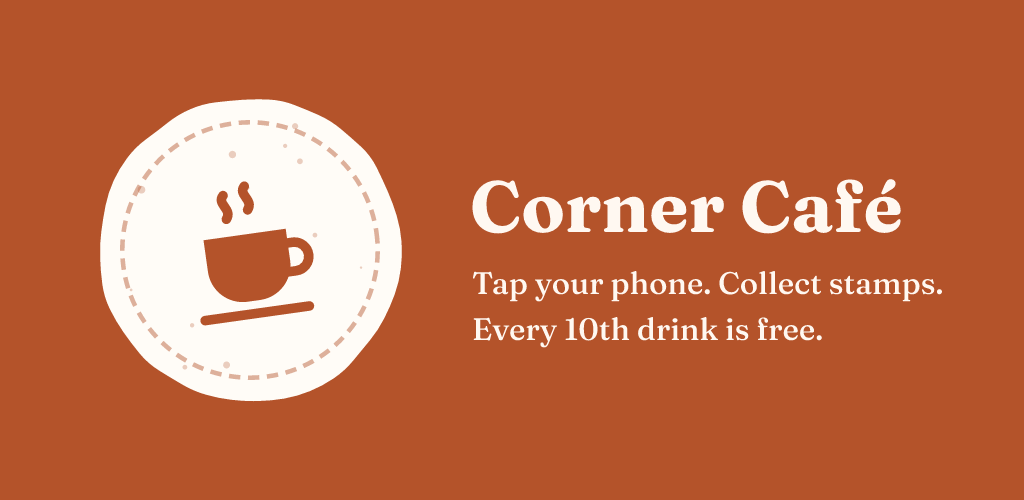
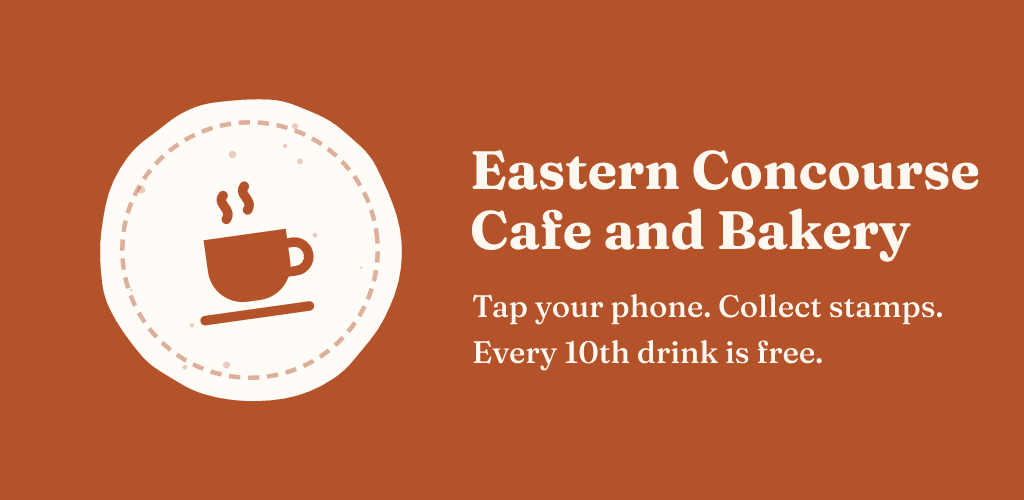
Name the app for Eastern Concourse Cafe and Bakery; build Play bundles locally
The café's real name replaces the placeholder. A new shortName (Eastern
Concourse) is the home-screen label and fills the one-line headers; the full
name stays on the card screen, About and the listing. cafeId and the link
scheme follow, so key 2 (signed for the old id) is retired and key 3 issued.

scripts/build-play-bundle.sh makes the Play upload key once and builds a
signed .aab with a fresh versionCode, checking the signature, so releasing
doesn't need an Expo account. The iOS workflow now derives the Xcode
project and scheme names instead of hard-coding them.

Changed region(s): [[0.4375, 0.3, 0.9688, 0.75]]

diff --git a/scripts/render-store.ts b/scripts/render-store.ts
@@ -64,10 +64,26 @@ function screenshot(png: Buffer, lines: readonly [string, string]): string {
   );
 }
 
+/** Splits a name into at most two lines, as evenly as its words allow. */
+function balancedLines(name: string): readonly string[] {
+  const words = name.trim().split(/\s+/);
+  if (name.length <= 14 || words.length < 2) return [name];
+  const splits = words.slice(1).map((_, i) => [words.slice(0, i + 1).join(' '), words.slice(i + 1).join(' ')]);
+  const longest = (lines: readonly string[]) => Math.max(...lines.map((l) => l.length));
+  return splits.reduce((best, s) => (longest(s) < longest(best) ? s : best));
+}
+
 /** Play feature graphic, 1024×500: the stamp mark beside the café's name. */
 function featureGraphic(): string {
   const [W, H] = [1024, 500];
   const mark = 360;
+  const x = 470;
+  const name = balancedLines(cafe.name);
+  // Fraunces Bold averages about 0.55em a character: a long name shrinks to fit beside the mark.
+  const size = Math.min(72, Math.floor((W - x - 48) / (0.55 * Math.max(...name.map((l) => l.length)))));
+  const lead = Math.round(size * 1.12);
+  const top = (H - (name.length * lead + 110)) / 2;
+  const below = top + name.length * lead;
   return doc(
     W,
     H,
@@ -75,9 +91,9 @@ function featureGraphic(): string {
     <g transform="translate(70 ${(H - mark) / 2})">
       <svg width="${mark}" height="${mark}" viewBox="0 0 ${mark} ${mark}">${stamp({ size: mark, r: 152, fill: theme.paper, ink: theme.accent, ring: theme.accent, speckle: theme.accent })}</svg>
     </g>
-    ${text(470, 232, 72, 700, theme.onAccent, cafe.name)}
-    ${text(472, 294, 31, 500, theme.onAccent, 'Tap your phone. Collect stamps.')}
-    ${text(472, 340, 31, 500, theme.onAccent, `Every ${freeEvery} drink is free.`)}`,
+    ${name.map((line, i) => text(x, top + size + i * lead, size, 700, theme.onAccent, line)).join('')}
+    ${text(x + 2, below + 62, 31, 500, theme.onAccent, 'Tap your phone. Collect stamps.')}
+    ${text(x + 2, below + 108, 31, 500, theme.onAccent, `Every ${freeEvery} drink is free.`)}`,
   );
 }
 

diff --git a/src/domain/config.ts b/src/domain/config.ts
@@ -30,6 +30,8 @@ export interface CafeConfig {
   /** Lowercase slug; part of the token signature, so changing it invalidates outstanding tokens. */
   readonly cafeId: string;
   readonly name: string;
+  /** Home-screen label and tight headers; keep it to about 18 characters. */
+  readonly shortName: string;
   readonly tagline: string;
   /** Deep link scheme, lowercase letters/digits only. */
   readonly scheme: string;
@@ -64,8 +66,9 @@ export function validateConfig(c: CafeConfig): Result<CafeConfig, readonly strin
     if (!cond) problems.push(msg);
   };
 
-  check(/^[a-z0-9]+(-[a-z0-9]+)*$/.test(c.cafeId ?? ''), 'cafeId must be a lowercase slug like "corner-cafe"');
+  check(/^[a-z0-9]+(-[a-z0-9]+)*$/.test(c.cafeId ?? ''), 'cafeId must be a lowercase slug like "eastern-concourse"');
   check(typeof c.name === 'string' && c.name.trim().length > 0, 'name is required');
+  check(typeof c.shortName === 'string' && c.shortName.trim().length > 0, 'shortName is required');
   check(/^[a-z][a-z0-9]{1,31}$/.test(c.scheme ?? ''), 'scheme must be lowercase letters/digits, starting with a letter');
   check(/^[a-zA-Z][a-zA-Z0-9]*(\.[a-zA-Z][a-zA-Z0-9]*)+$/.test(c.bundleId ?? ''), 'bundleId must look like com.example.app');
   check(Number.isInteger(c.rules?.stampsPerReward) && c.rules.stampsPerReward >= 2 && c.rules.stampsPerReward <= 20,

diff --git a/src/features/card/feedback.ts b/src/features/card/feedback.ts
@@ -20,7 +20,6 @@ export interface Feedback {
 }
 
 export interface FeedbackContext {
-  readonly cafeName: string;
   readonly rewardName: string;
   readonly stampsPerReward: number;
   /** Card summary after the event. */
@@ -37,7 +36,7 @@ export function progressLine(summary: CardSummary, stampsPerReward: number, rewa
 }
 
 export function describe(event: IntakeEvent, ctx: FeedbackContext): Feedback {
-  const { rewardName, stampsPerReward, summary, cafeName } = ctx;
+  const { rewardName, stampsPerReward, summary } = ctx;
 
   if (event.kind === 'success') {
     const o = event.outcome;
@@ -79,7 +78,7 @@ export function describe(event: IntakeEvent, ctx: FeedbackContext): Feedback {
 
   switch (event.error) {
     case 'not-ours':
-      return problem(`That's not a ${cafeName} code`, 'Hold your phone against the back of the counter phone, or scan the code on its screen.', 'Not a stamp code');
+      return problem("That code isn't one of ours", 'Hold your phone against the back of the counter phone, or scan the code on its screen.', 'Not a stamp code');
     case 'expired':
       return problem('That code has expired', 'Ask the barista to start a new stamp and try again.', 'Code expired');
     case 'not-yet-valid':

diff --git a/src/features/card/feedback.test.ts b/src/features/card/feedback.test.ts
@@ -7,7 +7,7 @@ import { describe, progressLine } from './feedback';
 
 const before = summarize(emptyCard, rules);
 const partial = summarize(cardOf(4), rules);
-const ctx = { cafeName: 'Test Cafe', rewardName: 'free drink', stampsPerReward: 9, summary: partial };
+const ctx = { rewardName: 'free drink', stampsPerReward: 9, summary: partial };
 const eventBase = { id: 1, source: 'nfc' as const };
 
 test.each([
@@ -39,7 +39,7 @@ test.each([
 });
 
 const problems: Record<IntakeProblem, readonly [string, string, string]> = {
-  'not-ours': ["That's not a Test Cafe code", 'Hold your phone against the back of the counter phone, or scan the code on its screen.', 'Not a stamp code'],
+  'not-ours': ["That code isn't one of ours", 'Hold your phone against the back of the counter phone, or scan the code on its screen.', 'Not a stamp code'],
   expired: ['That code has expired', 'Ask the barista to start a new stamp and try again.', 'Code expired'],
   'not-yet-valid': ["Your phone's clock looks off", 'Turn on automatic date & time in Settings, then try again.', 'Check date & time'],
   'already-used': ['That code was already used', 'Each code works once. Ask the barista for a new one.', 'Code already used'],

diff --git a/docs/privacy/index.html b/docs/privacy/index.html
@@ -3,7 +3,7 @@
 <head>
   <meta charset="utf-8">
   <meta name="viewport" content="width=device-width, initial-scale=1">
-  <title>Corner Café Loyalty Card — Privacy Policy</title>
+  <title>Eastern Concourse Cafe and Bakery loyalty card — Privacy Policy</title>
   <style>
     :root { --bg: #F2EBE1; --paper: #FFFCF7; --ink: #2A1E17; --muted: #6E5A4C; --accent: #B4532A; --line: #E2D6C7; }
     @media (prefers-color-scheme: dark) {
@@ -26,7 +26,7 @@
   <main>
     <div class="card">
       <h1>Privacy Policy</h1>
-      <p class="muted">Corner Café Loyalty Card · Last updated 18 October 2026</p>
+      <p class="muted">Eastern Concourse Cafe and Bakery loyalty card · Last updated 18 October 2026</p>
 
       <p class="lede"><strong>The app collects no personal data.</strong> There is no account, no sign-up, no server, no analytics and no advertising. Nothing you do in the app is sent to us or to anyone else.</p>
 

diff --git a/app.config.ts b/app.config.ts
@@ -14,7 +14,7 @@ const fraunces = [
 
 export default ({ config }: ConfigContext): ExpoConfig => ({
   ...config,
-  name: cafe.name,
+  name: cafe.shortName,
   slug: cafe.cafeId,
   scheme: cafe.scheme,
   version: '1.0.0',
@@ -36,6 +36,9 @@ export default ({ config }: ConfigContext): ExpoConfig => ({
       foregroundImage: './assets/android-icon-foreground.png',
       monochromeImage: './assets/android-icon-monochrome.png',
     },
+    // Play needs a higher versionCode on every upload: scripts/build-play-bundle.sh
+    // sets one, and EAS builds set their own.
+    versionCode: process.env.ANDROID_VERSION_CODE ? Number(process.env.ANDROID_VERSION_CODE) : undefined,
     predictiveBackGestureEnabled: true,
     blockedPermissions: ['android.permission.RECORD_AUDIO'],
   },

diff --git a/src/features/card/CardScreen.tsx b/src/features/card/CardScreen.tsx
@@ -31,7 +31,7 @@ export function CardScreen() {
   const summary = useMemo(() => summarize(card, cafe.rules), [card]);
 
   const feedback = useMemo(
-    () => (lastEvent ? describe(lastEvent, { cafeName: cafe.name, rewardName, stampsPerReward, summary }) : null),
+    () => (lastEvent ? describe(lastEvent, { rewardName, stampsPerReward, summary }) : null),
     [lastEvent, rewardName, stampsPerReward, summary],
   );
   // Don't read the counter phone while feedback or a code is on screen.
@@ -72,7 +72,7 @@ export function CardScreen() {
         </View>
 
         <StampCard
-          cafeName={cafe.name}
+          cafeName={cafe.shortName}
           stampsPerReward={stampsPerReward}
           filled={filled}
           staggerFrom={staggerFrom}

diff --git a/scripts/lib/cafeKeys.test.ts b/scripts/lib/cafeKeys.test.ts
@@ -3,7 +3,7 @@ import type { CafeConfig } from '../../src/domain/config';
 import { addPublicKey, nextKeyId, removeKey, renderProvisioningPage } from './cafeKeys';
 
 const fixture = (ids: readonly number[]): CafeConfig => ({
-  cafeId: 'test-cafe', name: 'Test Café', tagline: '', scheme: 'testcafe', bundleId: 'com.test.cafe',
+  cafeId: 'test-cafe', name: 'Test Café', shortName: 'Test Café', tagline: '', scheme: 'testcafe', bundleId: 'com.test.cafe',
   rules: { stampsPerReward: 8, maxStampsPerTap: 1, rewardName: 'drink' },
   contact: { address: '', hours: [], phone: '', website: '', instagram: '' },
   theme: { light: {} as CafeConfig['theme']['light'], dark: {} as CafeConfig['theme']['dark'] },

diff --git a/src/features/counter/OfferOverlay.tsx b/src/features/counter/OfferOverlay.tsx
@@ -84,7 +84,7 @@ export function OfferOverlay({ offer, onCancel, onDone, onShowQr, onScan }: Offe
               {view.title}
             </AppText>
             <AppText variant="body" tone="muted" align="center" style={{ marginTop: space.xs, maxWidth: 340 }}>
-              {view.stage === 'waiting' && offer.qrVisible && offer.nfc ? `Scan with the ${cafe.name} app, or tap phones.` : view.body}
+              {view.stage === 'waiting' && offer.qrVisible && offer.nfc ? `Scan with the ${cafe.shortName} app, or tap phones.` : view.body}
             </AppText>
           </View>
 

diff --git a/src/features/scan/ScanScreen.test.tsx b/src/features/scan/ScanScreen.test.tsx
@@ -31,7 +31,7 @@ describe('customer scan submission', () => {
   it('keeps scanning after an unrelated code and shows a useful message', async () => {
     const screen = await render(<ScanScreen />);
     await fireEvent(screen.getByLabelText('Scan result'), 'scan', 'https://example.com');
-    expect(screen.getByText(`That's not a ${cafe.name} code`)).toBeTruthy();
+    expect(screen.getByText("That code isn't one of ours")).toBeTruthy();
     expect(submitWithFeedback).not.toHaveBeenCalled();
     expect(router.back).not.toHaveBeenCalled();
   });

diff --git a/src/features/card/useTapToCollect.ts b/src/features/card/useTapToCollect.ts
@@ -81,7 +81,7 @@ export function useTapToCollect({ paused }: { paused: boolean }): TapController 
   const startSession = useCallback(() => {
     if (reading) return;
     setReading(true);
-    const message = `Hold the top of your iPhone near the back of the ${cafe.name} counter phone.`;
+    const message = `Hold the top of your iPhone near the back of the ${cafe.shortName} counter phone.`;
     void readOnce(message, (uris) => tapWithFeedback(card, uris)).finally(() => setReading(false));
   }, [reading, card]);
 

diff --git a/src/domain/config.test.ts b/src/domain/config.test.ts
@@ -15,6 +15,7 @@ test('the real cafe.config.json validates', () => {
 const mutations: readonly [string, (config: Mutable<CafeConfig>) => void][] = [
   ['cafeId', (c) => { c.cafeId = 'Upper_Cafe'; }],
   ['name', (c) => { c.name = '  '; }],
+  ['shortName', (c) => { c.shortName = ''; }],
   ['scheme', (c) => { c.scheme = '1Cafe'; }],
   ['bundleId', (c) => { c.bundleId = 'invalid'; }],
   ['rules.stampsPerReward', (c) => { c.rules.stampsPerReward = 1; }],
